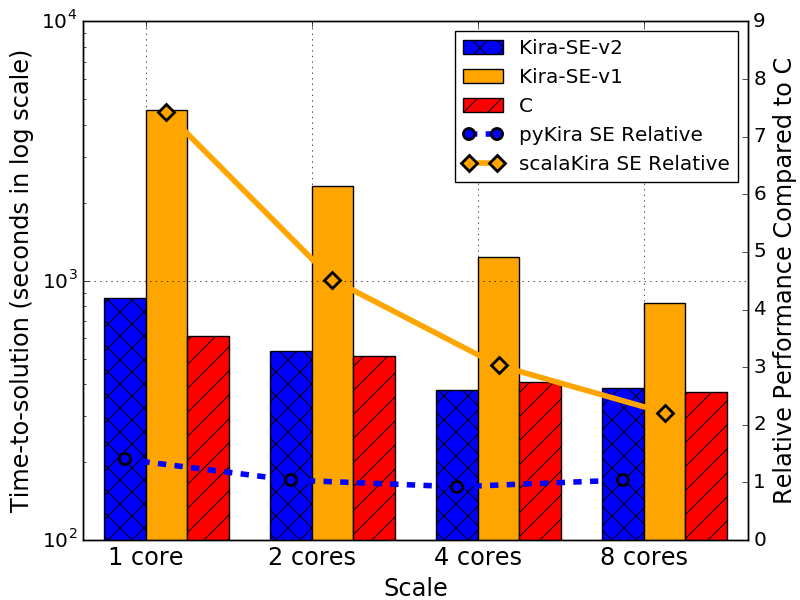
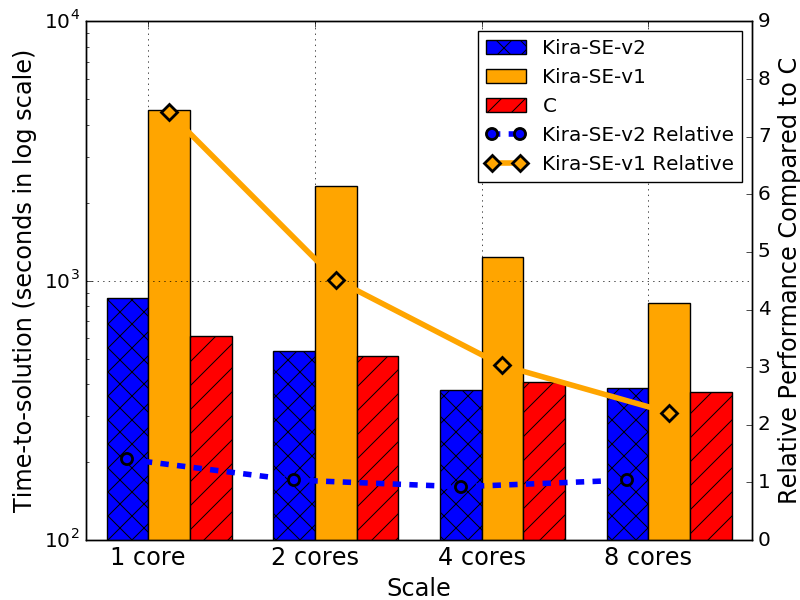
address Evan's comment

diff --git a/Kira.tex b/Kira.tex
@@ -1066,7 +1066,8 @@ performance of Kira SE and the C version for various core counts on a single mac
 \begin{figure}[h]
 	\begin{center}
 		\includegraphics[width=85mm]{pictures/scaleup}
-		\caption{Single-Node Scale-Up Performance Comparison between Kira SE and the C Version (Lower is Better) \evannote{The 4th caption in the legend needs to change from ``pyKira'' to ``Kira-SE-v2 Relative''}
+		\caption{Single-Node Scale-Up Performance Comparison between Kira SE and the C Version (Lower is Better) 
+		%\evannote{The 4th caption in the legend needs to change from ``pyKira'' to ``Kira-SE-v2 Relative''}
 		\label{fig:scaleup}}
   	\end{center}
 \end{figure}

diff --git a/pictures/scaleup.py b/pictures/scaleup.py
@@ -37,7 +37,7 @@ ax_c.set_ylabel('Relative Performance Compared to C', size='x-large')
 ax.set_xticks(ind+width)
 ax.set_xticklabels( ('1 core', '2 cores', '4 cores', '8 cores'), size='x-large') 
 
-ax.legend( (rects1[0], rects2[0], rects3[0], rects4[0], rects5[0]), ('Kira-SE-v2', 'Kira-SE-v1', 'C', 'pyKira SE Relative', 'scalaKira SE Relative') )
+ax.legend( (rects1[0], rects2[0], rects3[0], rects4[0], rects5[0]), ('Kira-SE-v2', 'Kira-SE-v1', 'C', 'Kira-SE-v2 Relative', 'Kira-SE-v1 Relative') )
 
 plt.show()
 
